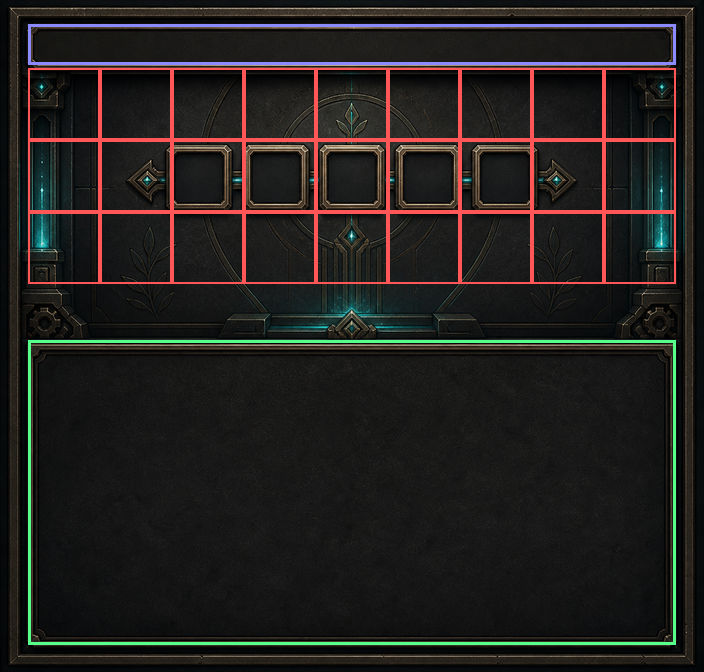
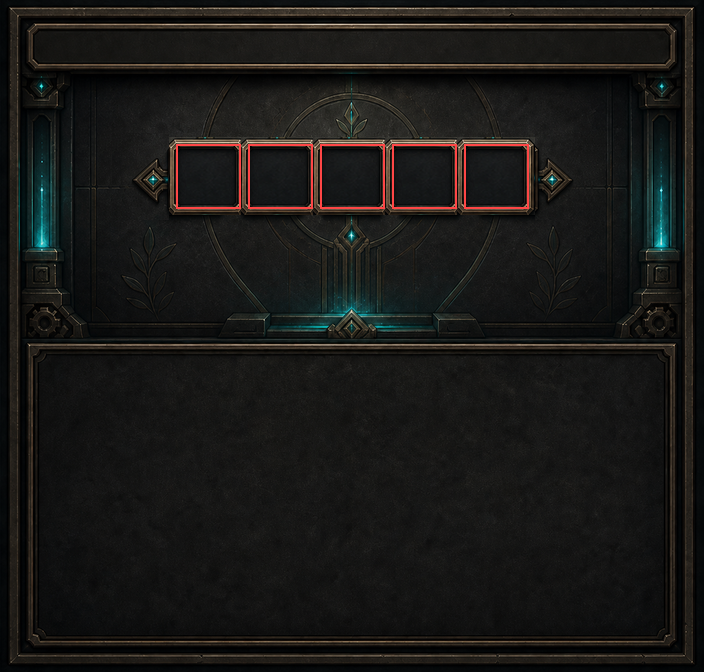
스킬 허브 액자 재배치 — 텍스처는 발주, 좌표는 코드
prep_skillhub_bg.py: 받은 그림에서 가운데 액자를 스프라이트로 떠 9-슬라이스로
늘리고(테두리 두께 유지·구멍 48→60px) 셀 중심 다섯 곳에 다시 찍는다. 좁아진
만큼 남는 양 끝 자투리는 끝 장식(다이아)을 안쪽으로 밀어 덮었다 — 벽을 떠다
메우면 옛 액자 그림자가 남았다.

Changed region(s): [[0.0312, 0.0312, 0.9688, 0.4375], [0.0312, 0.4688, 0.9688, 1.0], [0.0312, 0.4062, 0.0938, 0.4375]]

diff --git a/gui-forge/prep_skillhub_bg.py b/gui-forge/prep_skillhub_bg.py
@@ -1,0 +1,84 @@
+#!/usr/bin/env python3
+"""스킬 허브 배경 손질 — 액자 다섯을 정확한 격자에 다시 박는다.
+
+## 왜 손으로 박나
+발주로 두 번 받았는데 액자 간격이 76px, 80px 로 왔다. 필요한 건 **72px**(게임이
+아이템을 그리는 간격)이고, 그림 생성은 픽셀 단위 기하를 못 맞춘다. 재질과 구도는
+받은 그림이 좋으니 **텍스처는 발주, 좌표는 코드**로 나눈다. 강화창 화살표 옮기기
+(prep_enhance_bg.py)·아이스박스 상점 버튼 이식(prep_icebox_bg.py)과 같은 수법이다.
+
+## 하는 일
+1. 받은 원본(1283x1226)을 704x672로 줄인다.
+2. 가운데 액자(이미 x=352에 정확히 앉아 있다)를 스프라이트로 뜬다.
+3. 9-슬라이스로 늘려 **테두리 두께는 그대로 두고 구멍만 64px**로 키운다.
+   받은 액자는 구멍이 48px라 64px짜리 아이콘이 테두리를 통째로 덮었다.
+4. 슬롯 11~15의 셀 중심(x = 208·280·352·424·496, y = 176)에 다시 찍는다.
+   72px 간격에 78px 액자라 6px씩 겹치는데, 겹치는 폭이 테두리 두께와 비슷해
+   칸을 나눈 하나의 진열대처럼 읽힌다.
+5. 옛 액자가 새 액자 바깥으로 삐져나온 좌우 자투리는 아래쪽 벽을 떠다 덮는다.
+
+산출: src/skillhub/bg_source.png  (build_plate.py skillhub 가 먹는 파일)
+"""
+import os
+
+from PIL import Image
+
+HERE = os.path.dirname(os.path.abspath(__file__))
+SRC = os.path.join(HERE, "src", "skillhub")
+RAW = os.path.expanduser(
+    "~/.codex/generated_images/019fcffa-2416-7661-aab4-db32e8a6de57/"
+    "exec-6a6d0d38-9ba2-44e2-8aff-8d59e9c1f8c9.png")
+
+W, H = 704, 672
+# 가운데 액자 실측 바깥 상자(704x672 기준). 구멍은 329~377 x 150~206.
+SPRITE = (321, 142, 386, 214)
+CORNER = 18          # 9-슬라이스 모서리 — 액자 장식이 다 들어가는 크기
+OUT = 78             # 새 액자 바깥 한 변 (테두리 7 x2 + 구멍 64)
+CENTERS = [208, 280, 352, 424, 496]   # 슬롯 11~15 셀 중심
+ROW_Y = 176                            # 1행 셀 중심
+OLD = (158, 133, 542, 220)             # 옛 액자 다섯이 차지하던 범위(그림자까지 넉넉히)
+END_L, END_R = (112, 158), (542, 590)  # 좌우 끝 장식(다이아+연결선) 블록
+
+
+def nine_slice(sp, out_w, out_h, c):
+    """모서리 c x c 는 그대로, 변과 가운데만 늘린다 — 테두리 두께가 안 변한다."""
+    w, h = sp.size
+    im = Image.new("RGBA", (out_w, out_h))
+    xs_src = [(0, c), (c, w - c), (w - c, w)]
+    ys_src = [(0, c), (c, h - c), (h - c, h)]
+    xs_dst = [(0, c), (c, out_w - c), (out_w - c, out_w)]
+    ys_dst = [(0, c), (c, out_h - c), (out_h - c, out_h)]
+    for (sy0, sy1), (dy0, dy1) in zip(ys_src, ys_dst):
+        for (sx0, sx1), (dx0, dx1) in zip(xs_src, xs_dst):
+            piece = sp.crop((sx0, sy0, sx1, sy1))
+            im.paste(piece.resize((dx1 - dx0, dy1 - dy0), Image.LANCZOS), (dx0, dy0))
+    return im
+
+
+def main():
+    im = Image.open(RAW).convert("RGBA").resize((W, H), Image.LANCZOS)
+    frame = nine_slice(im.crop(SPRITE), OUT, OUT, CORNER)
+
+    # 새 액자 줄이 옛 줄보다 좁아져서 양 끝에 옛 액자 자투리가 남는다. 그 자리를 벽으로
+    # 메우려 해 봤지만(아래·옆에서 떠오기) 옛 액자의 그림자가 남아 티가 났다. 대신
+    # **끝 장식(다이아+연결선)을 통째로 안쪽으로 밀어** 자투리를 덮는다. 장식이 비운
+    # 자리는 그 바깥 민무늬 벽에서 떠오면 되고, 거긴 진짜로 아무것도 없다.
+    y0, y1 = OLD[1], OLD[3]
+    half = OUT // 2
+    new_x0, new_x1 = CENTERS[0] - half, CENTERS[-1] + half
+    for (bx0, bx1), dx in ((END_L, new_x0 - OLD[0]), (END_R, new_x1 - OLD[2])):
+        im.paste(im.crop((bx0, y0, bx1, y1)), (bx0 + dx, y0))
+        gap = (bx0, bx0 + dx) if dx > 0 else (bx1 + dx, bx1)   # 장식이 비운 자리
+        w = gap[1] - gap[0]
+        sx = gap[0] - w if dx > 0 else gap[1]                  # 바깥쪽 민무늬 벽
+        im.paste(im.crop((sx, y0, sx + w, y1)), (gap[0], y0))
+
+    for cx in CENTERS:
+        im.alpha_composite(frame, (cx - half, ROW_Y - half))
+
+    im.save(os.path.join(SRC, "bg_source.png"))
+    print(f"  skillhub 액자 5개 재배치 · 간격 72px · 바깥 {OUT}px · 구멍 {OUT - 2 * 7}px")
+
+
+if __name__ == "__main__":
+    main()
